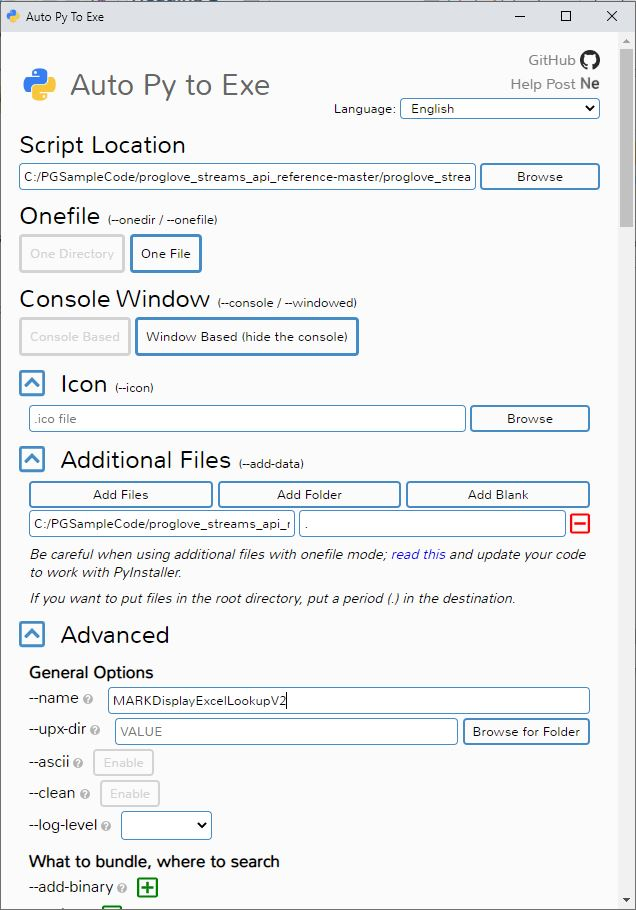
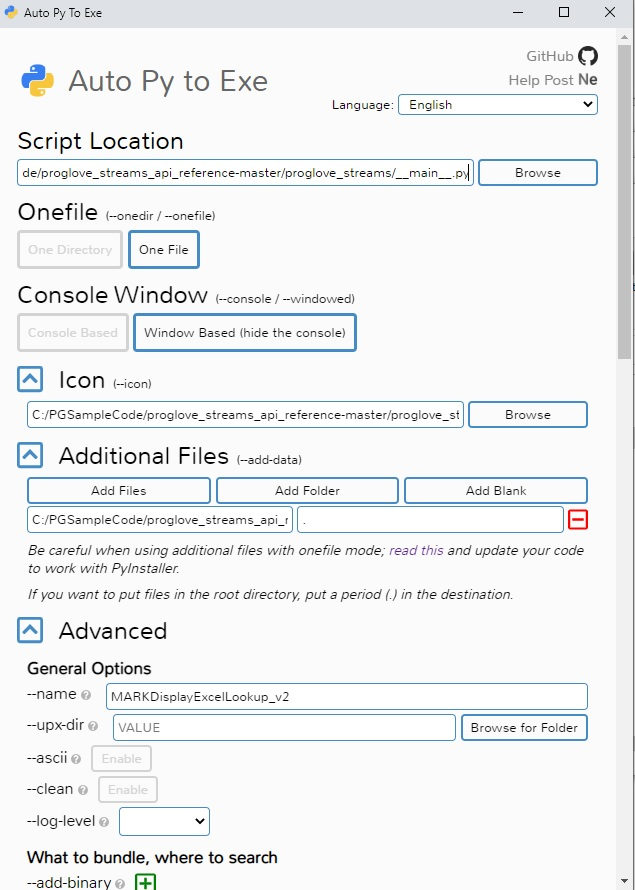
Made some changes to readme and image

diff --git a/README.md b/README.md
@@ -49,12 +49,13 @@ When changes are made to the code and it is sufficient enough to re-create an ex
 
     python -m pipenv run auto-py-to-exe
 
-- Select __main__.py as the script to use
+- Select `__main__.py` as the script to use
 - Select One File
 - Select Window Based (hide the console)
+- Select MARKicon.ico to be the icon
 - Add an additional file to include MARKIcon.ico, the application will not run without this file
 - Click on Advanced and change name to your desired applciation name
-- Press convert and if all goes well, a new executable with all of your latest changes will be created
+- Press convert and if all goes well, a new executable with all of your latest changes will be created and placed in the output folder
 
   ![](sample_images/auto-py-to-exe.JPG)
 
